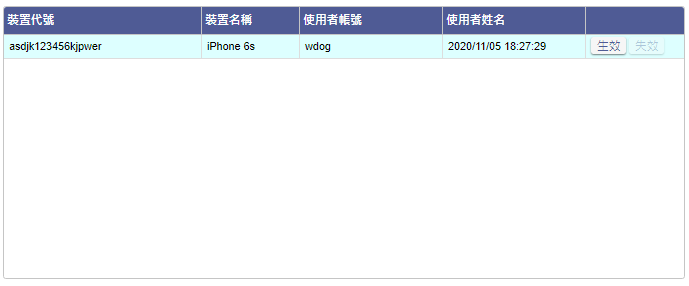
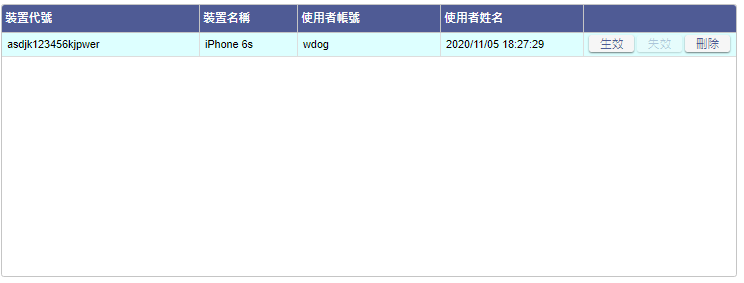
推播通知管理 改版

Changed region(s): [[0.0, 0.0, 1.0, 0.9894]]

diff --git a/8.10.0/UPDATE/ITEM_2/RTE/README.md b/8.10.0/UPDATE/ITEM_2/RTE/README.md
@@ -10,30 +10,39 @@
 ### <div id="sitemanage_1">表單.推播通知管理 <path>(Site管理)</path></div>
 * 擴充
 * 規格說明
-    * 該表單用來管理使用者接收推播通知的能力
-    * 該表單僅系統管理員或企業管理員權限可開啟
-    * 若為系統管理員，表單開啟後，列出該系統管理員可管理的系統下所有使用者清單。<br><ps>注意</ps> : 因同一使用者可能會在多個系統出現，需去除重複的使用者，同一使用者在清單中僅出現一筆。
-    * 若為企業管理員，表單開啟後，列出該企業下所有使用者清單。
+    * 該表單用來管理裝置接收推播通知的能力
+    * 該表單僅企業管理員權限可開啟
+    * 若為企業管理員，表單開啟後，依據以下條件列出裝置清單
+        * 裝置為主要裝置，且使用者隸屬於企業管理員的企業。
+        * 裝置為共用裝置，最後使用者隸屬於企業管理員的企業。
 * 表單畫面
 
-    ![Alt sitemanage1](./img/sitemanage1.png)
+    ![Alt sitemanage1](./img/pushmessagemanage_view.png)
 * 畫面規格說明
-    * 欄位.部門單位 : 該使用者所屬的部門單位名稱
-    * 欄位.帳號 : 該使用者的帳號
-    * 欄位.使用者姓名 : 該使用者的姓名
-    * 按鈕.生效 : 點擊後將該使用者接收推播通知的功能生效，若為已生效的使用者紀錄，該按鈕除能。
-    * 按鈕.失效 : 點擊後將該使用者接收推播通知的功能失效，若為已失效的使用者紀錄，該按鈕除能。
+    * 欄位.裝置代號 : 該裝置的 IMEI，點擊欄位標題，依該欄位重新排序。
+    * 欄位.裝置名稱 : 該裝置的名稱，該欄位為預設排序欄位。點擊欄位標題，依該欄位重新排序。
+    * 欄位.使用者帳號 : 設定該裝置為主要裝置的使用者帳號，或該裝置為共用裝置，顯示最後登入的使用者帳號，若無上述資訊則顯示空白。點擊欄位標題，依該欄位重新排序。
+    * 欄位.使用者姓名 : 欄位.使用者帳號對應的使用者姓名，若欄位.帳號為空白，則顯示空白。點擊欄位標題，依該欄位重新排序。
+    * 按鈕.生效 : 點擊後將該裝置接收推播通知的功能生效，若為已生效的裝置紀錄，該按鈕除能。
+    * 按鈕.失效 : 點擊後將該裝置接收推播通知的功能失效，若為已失效的裝置紀錄，該按鈕除能。
+    * 按鈕.刪除 : 點擊後刪除該裝置的紀錄，權限等同失效。
 
 * 作業流程
     * 開啟畫面
 
-    ![Alt sitemanage2](./img/sitemanage2.png)
-    * 生效使用者接收推播通知
+    ![Alt pushmessagemanage_sa1](./img/pushmessagemanage_sa1.png)
+    * 生效裝置接收推播通知
 
-    ![Alt sitemanage3](./img/sitemanage3.png)
-    * 失效使用者接收推播通知
+    ![Alt pushmessagemanage_sa2](./img/pushmessagemanage_sa2.png)
+    * 失效裝置接收推播通知
 
-    ![Alt sitemanage4](./img/sitemanage4.png)
+    ![Alt pushmessagemanage_sa3](./img/pushmessagemanage_sa3.png)
+    * 刪除裝置
+
+    ![Alt pushmessagemanage_sa5](./img/pushmessagemanage_sa5.png)
+    * 點擊 欄位.裝置代號 / 欄位.裝置名稱 / 欄位.使用者帳號 / 欄位.使用者姓名 標題進行排序
+    
+    ![Alt pushmessagemanage_sa4](./img/pushmessagemanage_sa4.png)
 
 ### <div id="sitemanage_2">表單.其他參數 <path>(Site管理)</path></div>
 * 異動
@@ -42,9 +51,9 @@
     * 增加欄位.推播通知訊息保留天數，數字型態欄位，不可空白，不可輸入小於0的數字，若為0則不執行清除訊息，欄位預設值為30。
 * 表單畫面
 
-    ![Alt sitemanage5](./img/sitemanage5.png)   
+    ![Alt sitemanage5](./img/otherparameter_view.png)   
 * 作業流程
     * 儲存
 
-    ![Alt sitemanage6](./img/sitemanage6.png)
+    ![Alt sitemanage6](./img/otherparameter_sa1.png)
 ### <div id="rte_1">推播訊息 <path>(Site管理)</path></div>
